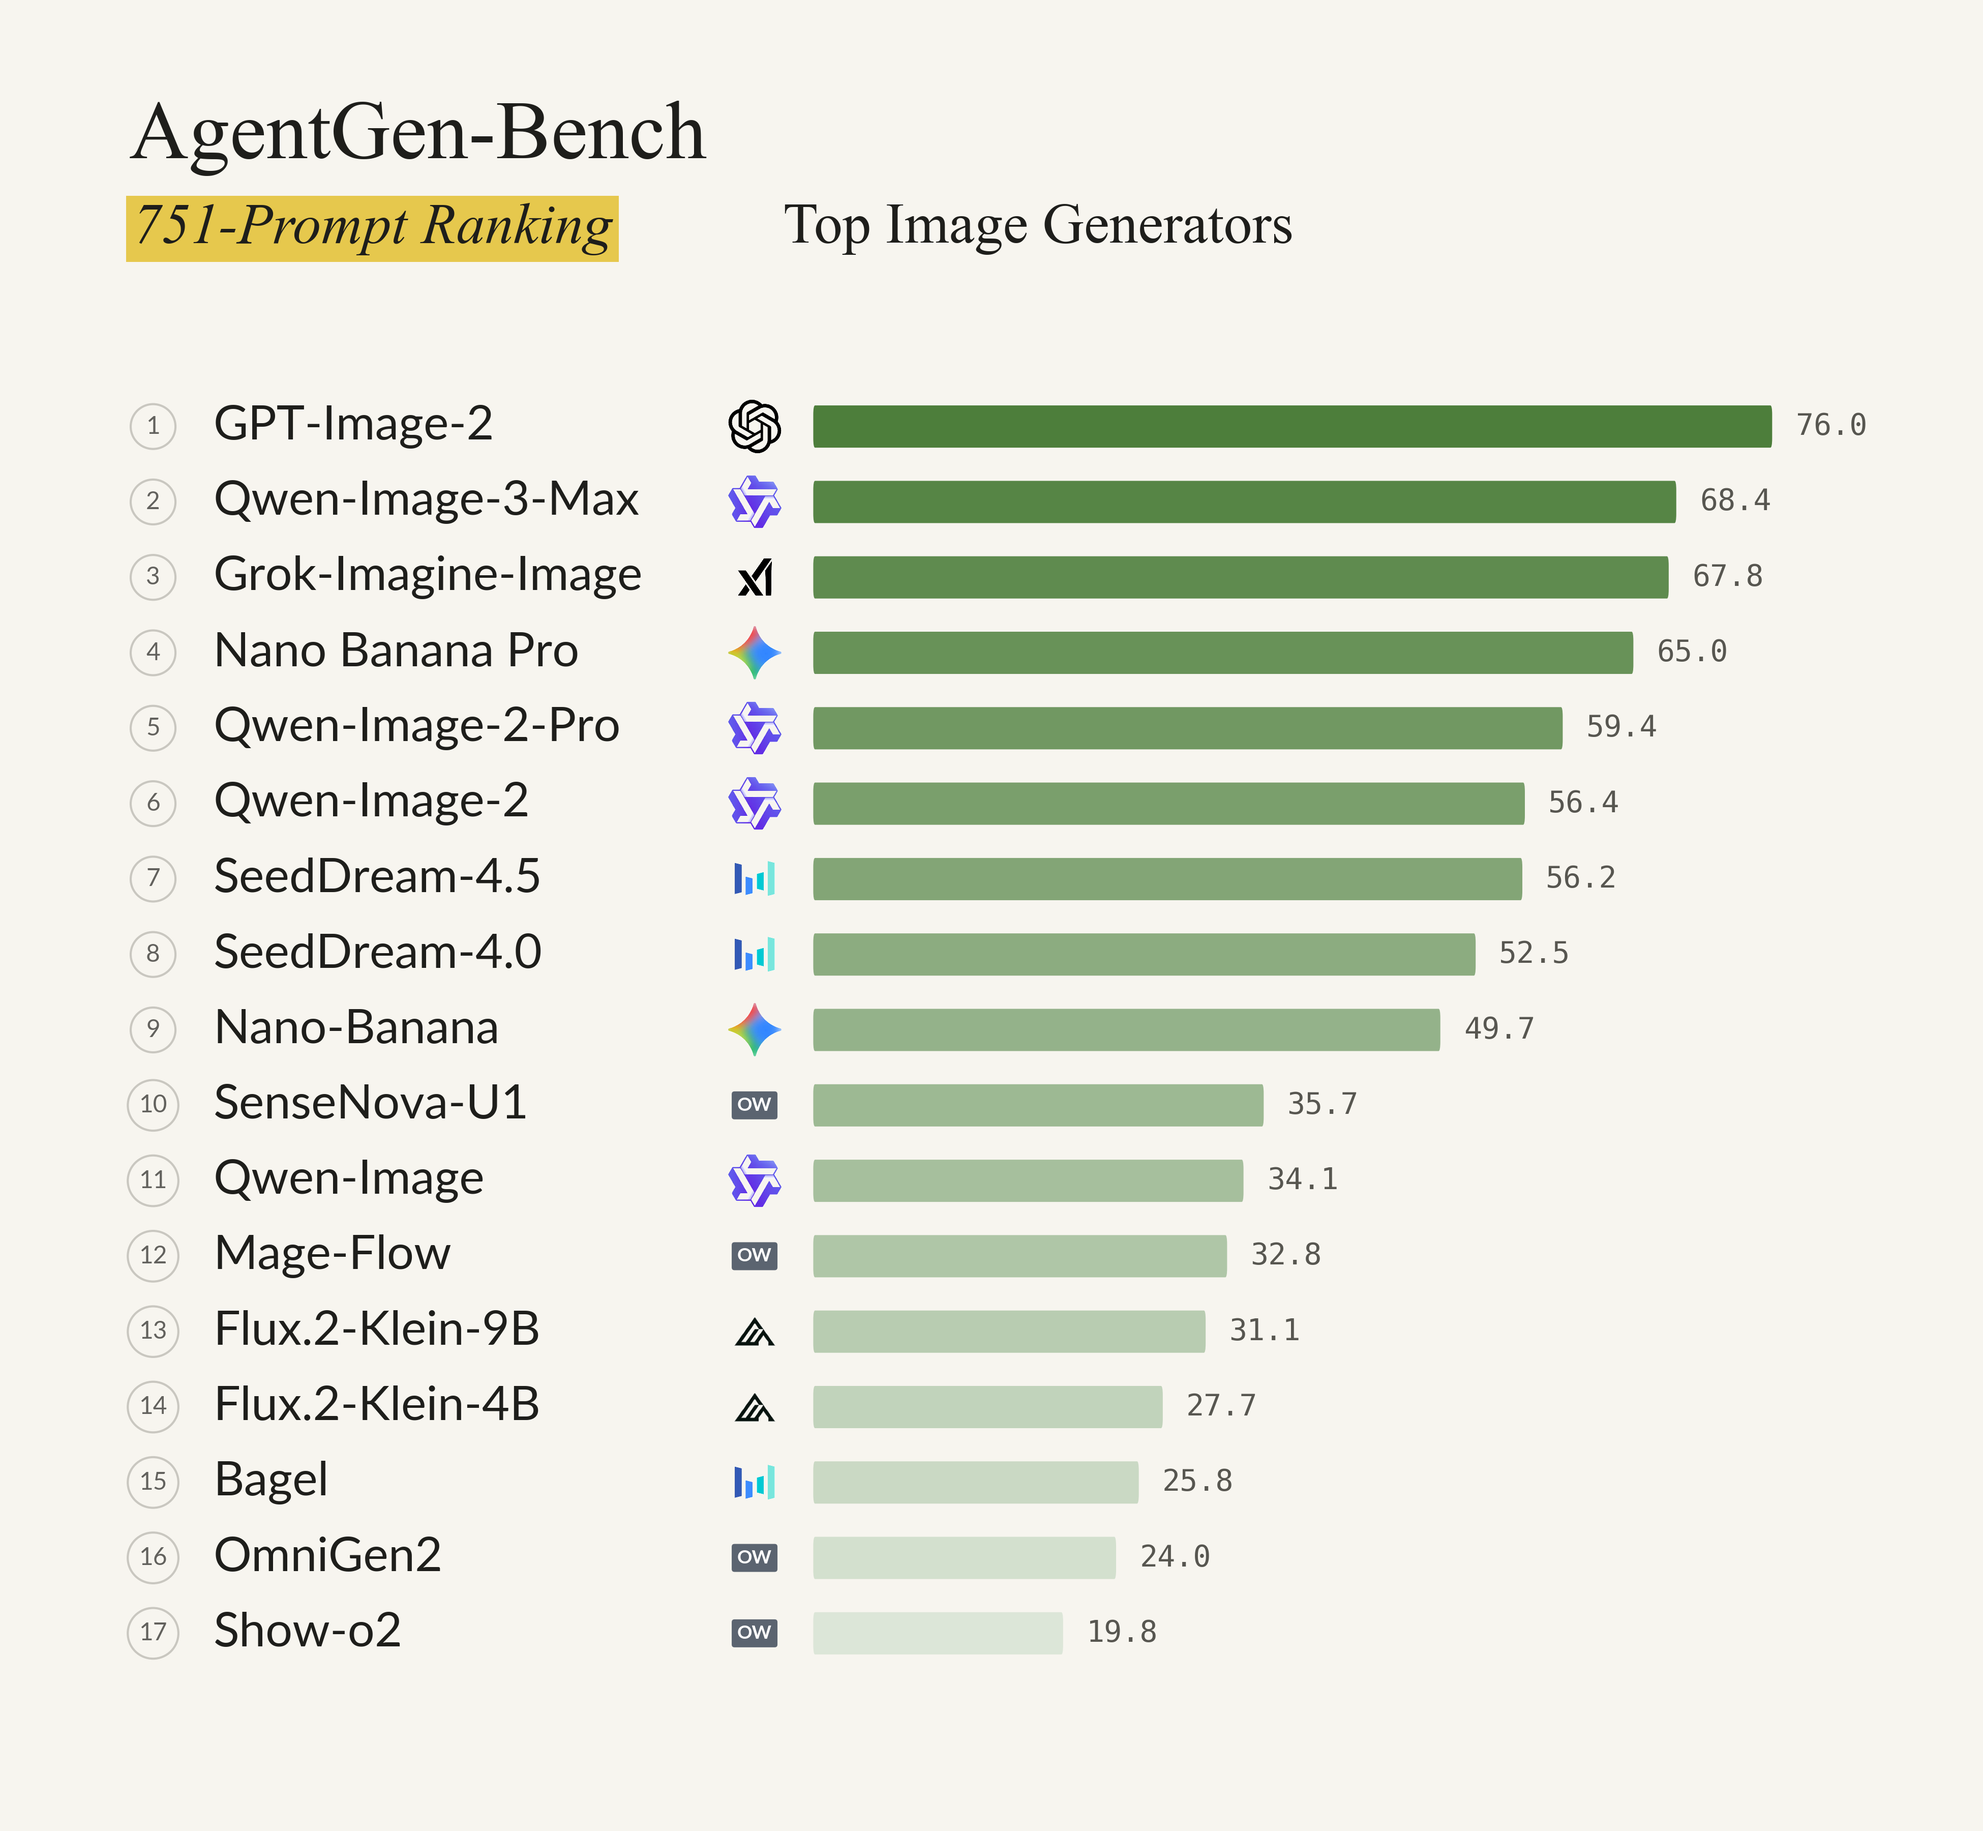
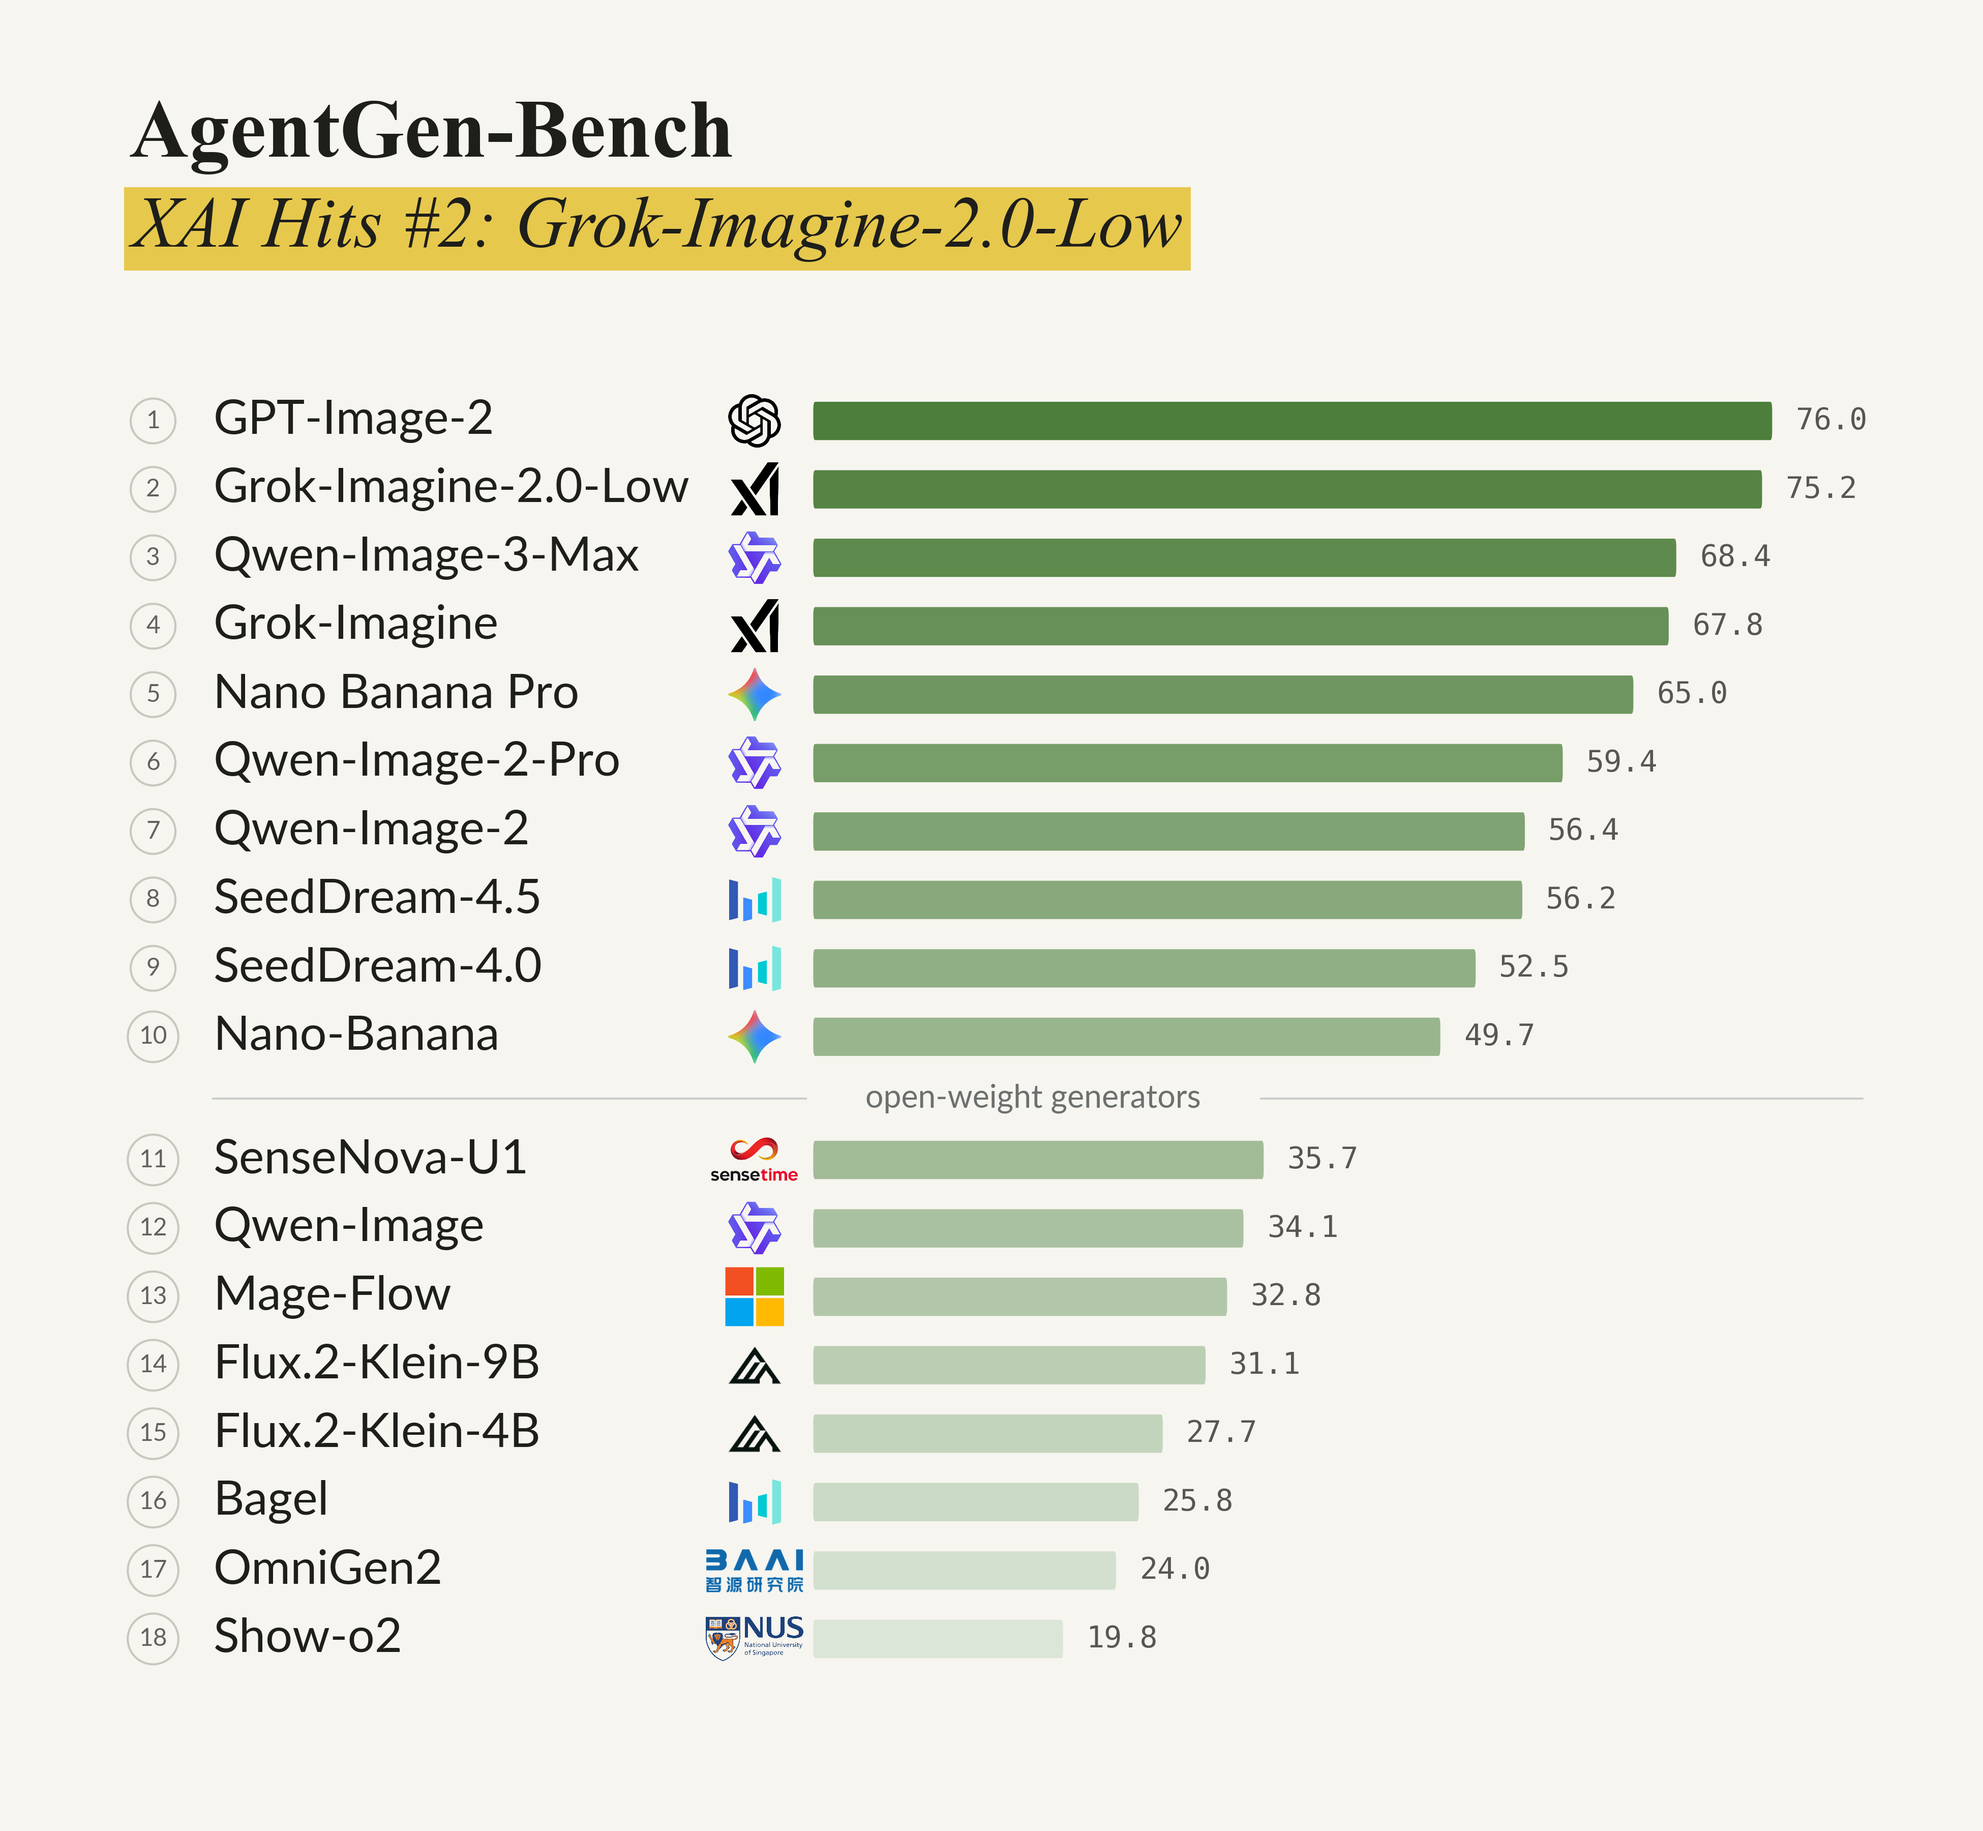
Publish full and compact benchmark results

Changed region(s): [[0.3413, 0.2178, 0.9308, 0.9022], [0.0621, 0.2178, 0.3413, 0.9022], [0.0621, 0.0311, 0.6205, 0.1556]]

diff --git a/README.md b/README.md
@@ -49,7 +49,7 @@ Haozhe Wang<sup>1</sup> · Weijia Feng<sup>3</sup> · Jinpeng Yu<sup>3</sup> · 
 
 ## TL;DR — Teach What You Can, Search the Rest
 
-Modern image generators render gorgeously and lie fluently. Ask for the 2025 Osaka Expo mascot and you get a confident, wrong invention. The failure isn't the pixels—it's the **knowledge**. On **AgentGen-Bench**, frontier open generators score just **21–28 out of 100** on search-intensive prompts—up to a roughly 40-point collapse that standard benchmarks never register.
+Modern image generators render gorgeously and lie fluently. Ask for the 2025 Osaka Expo mascot and you get a confident, wrong invention. The failure isn't the pixels—it's the **knowledge**. On **AgentGen-Bench**, open generators score just **17.5–31.6 out of 100** on search-intensive prompts—with a collapse of up to 41.4 points that standard benchmarks never register.
 
 Search is the obvious fix, the way an illustrator consults references. But naive search backfires: it corrupts prompts the generator already handled. The real problem is a **knowledge boundary**—the line between what a generator can learn and what it must look up. That line is generator-specific, it moves during training, and it cannot be hand-drawn. It has to be discovered.
 
@@ -71,11 +71,11 @@ Worse, generators have no way to flag their own ignorance. They are trained to a
 
 *Ask for a specific person, a labeled scientific diagram, or live data and today's best generators confidently fabricate. These representative cases span SearchGen's 12 failure categories.*
 
-## Finding 1 — A 40-Point Gap That No Benchmark Shows
+## Finding 1 — A 41.4-Point Gap That No Benchmark Shows
 
-> **Generators that score comparably on standard prompts diverge by nearly 40 points when search-intensive world knowledge is required.**
+> **Generators that score comparably on standard prompts diverge by up to 41.4 points when search-intensive world knowledge is required.**
 
-On prompts that need only what a model already learned, open and commercial generators land in the same band (**67–75 out of 100**). Turn to prompts that need live world knowledge, and the field splits: open generators crater to **21–28**, while commercial systems with built-in search barely move. Existing benchmarks test rendering inside known concepts, so they never see this gap at all.
+On NoSearch prompts, the strongest open generator reaches **70.0**, overlapping the commercial range (**66.3–78.9**). Turn to prompts that need live world knowledge and the field splits: open generators span **17.5–31.6**, while the five leading commercial systems score **63.6–75.5** and drop by only **2.0–9.7** points. Existing benchmarks test rendering inside known concepts, so they never see this gap at all.
 
 To surface it, we built **AgentGen-Bench** (previously named **SearchGen-Bench**): 751 test prompts scored with separate dimensions for **knowledge** and **rendering**. The new name reflects the benchmark's broader use for evaluating agentic generation. The split is the whole point. When a generator scores poorly on knowledge checklists but remains strong on image quality, the diagnosis is unambiguous—it can draw; it just does not know.
 
@@ -83,13 +83,108 @@ To surface it, we built **AgentGen-Bench** (previously named **SearchGen-Bench**
   <img src="assets/readme/b1.png" width="900" alt="AgentGen-Bench results across no-search and search-intensive prompts">
 </p>
 
-***AgentGen-Bench results.** Generators score well on prompts they can answer from memory (gray). On prompts requiring external knowledge (orange), every open generator collapses—up to a 40-point drop—while commercial systems with built-in search hold. The bottleneck is missing knowledge, not rendering skill.*
+***AgentGen-Bench results.** Generators score well on prompts they can answer from memory (gray). On prompts requiring external knowledge (blue), every open generator drops—by as much as 41.4 points—while the leading commercial systems remain comparatively stable. The bottleneck is missing knowledge, not rendering skill.*
 
 <p align="center">
-  <img src="assets/readme/agentgenbench_arena_style.png" width="760" alt="Overall9 AgentGen-Bench ranking of seventeen image generators on the full 751-prompt evaluation">
+  <img src="assets/readme/agentgenbench_arena_style.png" width="760" alt="Overall9 AgentGen-Bench ranking of eighteen image generators on the full 751-prompt evaluation">
 </p>
 
-***Overall AgentGen-Bench ranking.** GPT-Image-2 leads, followed by Qwen-Image-3-Max and Grok-Imagine-Image. Scores use Overall9 from the finalized 3d5 evaluator.*
+***Overall AgentGen-Bench ranking.** GPT-Image-2 leads, followed by Grok-Imagine-2.0-Low and Qwen-Image-3-Max. Scores use Overall9 from the finalized 3d5 evaluator.*
+
+### Full and Test-mini Leaderboard
+
+**Full** evaluates all 751 benchmark prompts. **Test-mini** is the fixed,
+published 200-prompt slice obtained by selecting rows whose `subset` array
+contains the official `testmini` label—it is not a new random sample:
+
+```python
+from datasets import load_dataset
+
+benchmark = load_dataset("JasperHaozhe/AgentGen-Bench", split="test")
+testmini = benchmark.filter(lambda row: "testmini" in row["subset"])
+assert len(testmini) == 200
+```
+
+Scores are on a 0–100 scale. Overall9 is the primary ranking metric; coverage
+is `scored prompts / slice prompts`, with missing evaluator scores excluded
+from aggregation. Across all 18 models, Test-mini preserves the Full Overall9
+rank order (Pearson `r = 0.9994`; mean absolute displayed-score difference
+`0.77`).
+
+| Full rank | Model | Full cov. | Full O9 | Full O10 | Test-mini cov. | Test-mini O9 | Test-mini O10 |
+|---:|---|---:|---:|---:|---:|---:|---:|
+| 1 | GPT-Image-2 | 718/751 | 76.0 | 74.8 | 200/200 | 76.3 | 75.2 |
+| 2 | Grok-Imagine-2.0-Low | 715/751 | 75.2 | 74.1 | 196/200 | 73.9 | 72.8 |
+| 3 | Qwen-Image-3-Max | 738/751 | 68.4 | 67.2 | 195/200 | 68.2 | 66.8 |
+| 4 | Grok-Imagine | 717/751 | 67.8 | 66.5 | 196/200 | 67.7 | 66.4 |
+| 5 | Nano Banana Pro | 738/751 | 65.0 | 63.6 | 200/200 | 64.7 | 63.2 |
+| 6 | Qwen-Image-2-Pro | 742/751 | 59.4 | 58.0 | 197/200 | 60.3 | 59.0 |
+| 7 | Qwen-Image-2 | 741/751 | 56.4 | 54.9 | 197/200 | 56.9 | 55.5 |
+| 8 | SeedDream-4.5 | 746/751 | 56.2 | 54.7 | 199/200 | 56.6 | 55.2 |
+| 9 | SeedDream-4.0 | 750/751 | 52.5 | 50.9 | 200/200 | 51.8 | 50.1 |
+| 10 | Nano-Banana | 740/751 | 49.7 | 47.9 | 200/200 | 48.4 | 46.5 |
+| 11 | SenseNova-U1 | 750/751 | 35.7 | 34.4 | 200/200 | 35.4 | 34.0 |
+| 12 | Qwen-Image | 751/751 | 34.1 | 32.8 | 200/200 | 32.7 | 31.5 |
+| 13 | Mage-Flow | 751/751 | 32.8 | 31.4 | 200/200 | 31.4 | 30.0 |
+| 14 | Flux.2-Klein-9B | 750/751 | 31.1 | 29.7 | 200/200 | 30.5 | 29.2 |
+| 15 | Flux.2-Klein-4B | 751/751 | 27.7 | 26.4 | 200/200 | 27.1 | 25.7 |
+| 16 | Bagel | 751/751 | 25.8 | 24.6 | 200/200 | 24.8 | 23.5 |
+| 17 | OmniGen2 | 750/751 | 24.0 | 22.8 | 199/200 | 22.2 | 21.1 |
+| 18 | Show-o2 | 751/751 | 19.8 | 18.7 | 200/200 | 19.1 | 18.1 |
+
+<details>
+<summary><strong>Mini-easy and Mini-hard leaderboards (100 prompts each)</strong></summary>
+
+`testmini_easy` and `testmini_hard` are independent official label slices;
+they are not necessarily a partition of the 200-prompt `testmini` slice.
+
+#### Mini-easy
+
+| Rank | Model | Coverage | Overall9 | Overall10 |
+|---:|---|---:|---:|---:|
+| 1 | GPT-Image-2 | 100/100 | 79.7 | 79.1 |
+| 2 | Grok-Imagine-2.0-Low | 98/100 | 79.5 | 78.9 |
+| 3 | Qwen-Image-3-Max | 99/100 | 74.9 | 74.0 |
+| 4 | Grok-Imagine | 98/100 | 73.4 | 72.5 |
+| 5 | Qwen-Image-2-Pro | 99/100 | 69.3 | 68.2 |
+| 6 | Nano Banana Pro | 100/100 | 66.5 | 65.3 |
+| 7 | SeedDream-4.0 | 100/100 | 64.3 | 63.1 |
+| 8 | SeedDream-4.5 | 99/100 | 63.9 | 62.6 |
+| 9 | Qwen-Image-2 | 99/100 | 63.5 | 62.1 |
+| 10 | Nano-Banana | 100/100 | 54.4 | 52.4 |
+| 11 | SenseNova-U1 | 100/100 | 40.6 | 39.0 |
+| 12 | Qwen-Image | 100/100 | 38.7 | 37.1 |
+| 13 | Mage-Flow | 100/100 | 37.7 | 36.0 |
+| 14 | Flux.2-Klein-9B | 100/100 | 34.8 | 33.1 |
+| 15 | Flux.2-Klein-4B | 100/100 | 32.6 | 30.8 |
+| 16 | Bagel | 100/100 | 29.3 | 27.7 |
+| 17 | OmniGen2 | 100/100 | 26.5 | 25.0 |
+| 18 | Show-o2 | 100/100 | 20.2 | 18.9 |
+
+#### Mini-hard
+
+| Rank | Model | Coverage | Overall9 | Overall10 |
+|---:|---|---:|---:|---:|
+| 1 | Grok-Imagine-2.0-Low | 96/100 | 71.9 | 70.5 |
+| 2 | GPT-Image-2 | 100/100 | 71.3 | 70.1 |
+| 3 | Qwen-Image-3-Max | 99/100 | 64.3 | 62.9 |
+| 4 | Grok-Imagine | 94/100 | 61.8 | 60.4 |
+| 5 | Nano Banana Pro | 100/100 | 60.8 | 59.3 |
+| 6 | Qwen-Image-2-Pro | 100/100 | 50.6 | 49.0 |
+| 7 | Qwen-Image-2 | 100/100 | 50.0 | 48.4 |
+| 8 | SeedDream-4.5 | 100/100 | 49.0 | 47.7 |
+| 9 | Nano-Banana | 100/100 | 44.4 | 42.7 |
+| 10 | SeedDream-4.0 | 100/100 | 38.9 | 37.4 |
+| 11 | SenseNova-U1 | 100/100 | 29.7 | 28.6 |
+| 12 | Qwen-Image | 100/100 | 29.5 | 28.4 |
+| 13 | Mage-Flow | 100/100 | 28.3 | 27.2 |
+| 14 | Flux.2-Klein-9B | 100/100 | 27.3 | 26.2 |
+| 15 | Bagel | 100/100 | 23.0 | 22.2 |
+| 16 | Flux.2-Klein-4B | 100/100 | 21.9 | 20.9 |
+| 17 | OmniGen2 | 100/100 | 21.9 | 21.0 |
+| 18 | Show-o2 | 100/100 | 15.8 | 14.9 |
+
+</details>
 
 ### Full Benchmark Breakdown
 
@@ -98,7 +193,8 @@ Scores are reported on a 0–100 scale; higher is better. **Checklist**, **Rubri
 | Stratum | Type | Generator | Overall9 | Checklist | Rubric | Prompt | Image quality | Text rendering | AI naturalness | Composition | Physical plausibility | Visual ref. |
 |:--|:--|:--|--:|--:|--:|--:|--:|--:|--:|--:|--:|--:|
 | NoSearch | Commercial | GPT-Image-2 | 78.9 | 84.8 | 82.7 | 79.3 | 73.4 | 92.3 | 67.6 | 86.5 | 81.2 | 70.9 |
-| NoSearch | Commercial | Grok-Imagine-Image | 74.8 | 81.3 | 78.3 | 72.7 | 72.3 | 83.9 | 65.6 | 79.7 | 77.2 | 66.9 |
+| NoSearch | Commercial | Grok-Imagine-2.0-Low | 76.9 | 83.0 | 80.0 | 75.9 | 72.5 | 85.5 | 66.3 | 84.0 | 80.8 | 68.7 |
+| NoSearch | Commercial | Grok-Imagine | 74.8 | 81.3 | 78.3 | 72.7 | 72.3 | 83.9 | 65.6 | 79.7 | 77.2 | 66.9 |
 | NoSearch | Commercial | Qwen-Image-3-Max | 73.7 | 79.1 | 76.2 | 69.8 | 70.3 | 86.2 | 63.9 | 82.5 | 78.3 | 64.0 |
 | NoSearch | Commercial | Nano Banana Pro | 73.3 | 78.4 | 76.3 | 70.2 | 70.7 | 85.6 | 65.2 | 80.3 | 77.1 | 63.0 |
 | NoSearch | Commercial | Qwen-Image-2-Pro | 71.2 | 76.8 | 74.1 | 67.3 | 70.5 | 77.8 | 61.8 | 78.3 | 75.3 | 61.2 |
@@ -115,8 +211,9 @@ Scores are reported on a 0–100 scale; higher is better. **Checklist**, **Rubri
 | NoSearch | Open | OmniGen2 | 47.4 | 49.1 | 46.1 | 33.5 | 56.4 | 7.8 | 47.3 | 61.4 | 60.3 | 30.6 |
 | NoSearch | Open | Show-o2 | 34.4 | 32.7 | 30.9 | 21.0 | 47.2 | 2.4 | 38.0 | 49.8 | 40.9 | 19.9 |
 | SearchIntensive | Commercial | GPT-Image-2 | 75.5 | 74.4 | 73.7 | 72.2 | 77.4 | 77.7 | 68.9 | 83.9 | 84.9 | 70.4 |
+| SearchIntensive | Commercial | Grok-Imagine-2.0-Low | 74.9 | 73.1 | 72.5 | 70.7 | 76.9 | 79.9 | 69.0 | 83.5 | 85.6 | 68.3 |
 | SearchIntensive | Commercial | Qwen-Image-3-Max | 67.6 | 65.8 | 65.3 | 62.8 | 71.1 | 67.9 | 62.3 | 77.0 | 78.6 | 59.6 |
-| SearchIntensive | Commercial | Grok-Imagine-Image | 66.7 | 65.9 | 64.6 | 62.8 | 69.5 | 65.7 | 61.7 | 75.6 | 77.8 | 59.7 |
+| SearchIntensive | Commercial | Grok-Imagine | 66.7 | 65.9 | 64.6 | 62.8 | 69.5 | 65.7 | 61.7 | 75.6 | 77.8 | 59.7 |
 | SearchIntensive | Commercial | Nano Banana Pro | 63.6 | 60.7 | 60.1 | 56.4 | 68.1 | 61.3 | 60.0 | 72.7 | 78.1 | 55.4 |
 | SearchIntensive | Commercial | Qwen-Image-2-Pro | 57.5 | 53.9 | 53.1 | 48.3 | 65.3 | 55.1 | 57.3 | 68.9 | 72.8 | 46.8 |
 | SearchIntensive | Commercial | Qwen-Image-2 | 54.1 | 49.9 | 49.6 | 44.1 | 62.5 | 50.1 | 54.3 | 66.2 | 71.4 | 42.0 |
